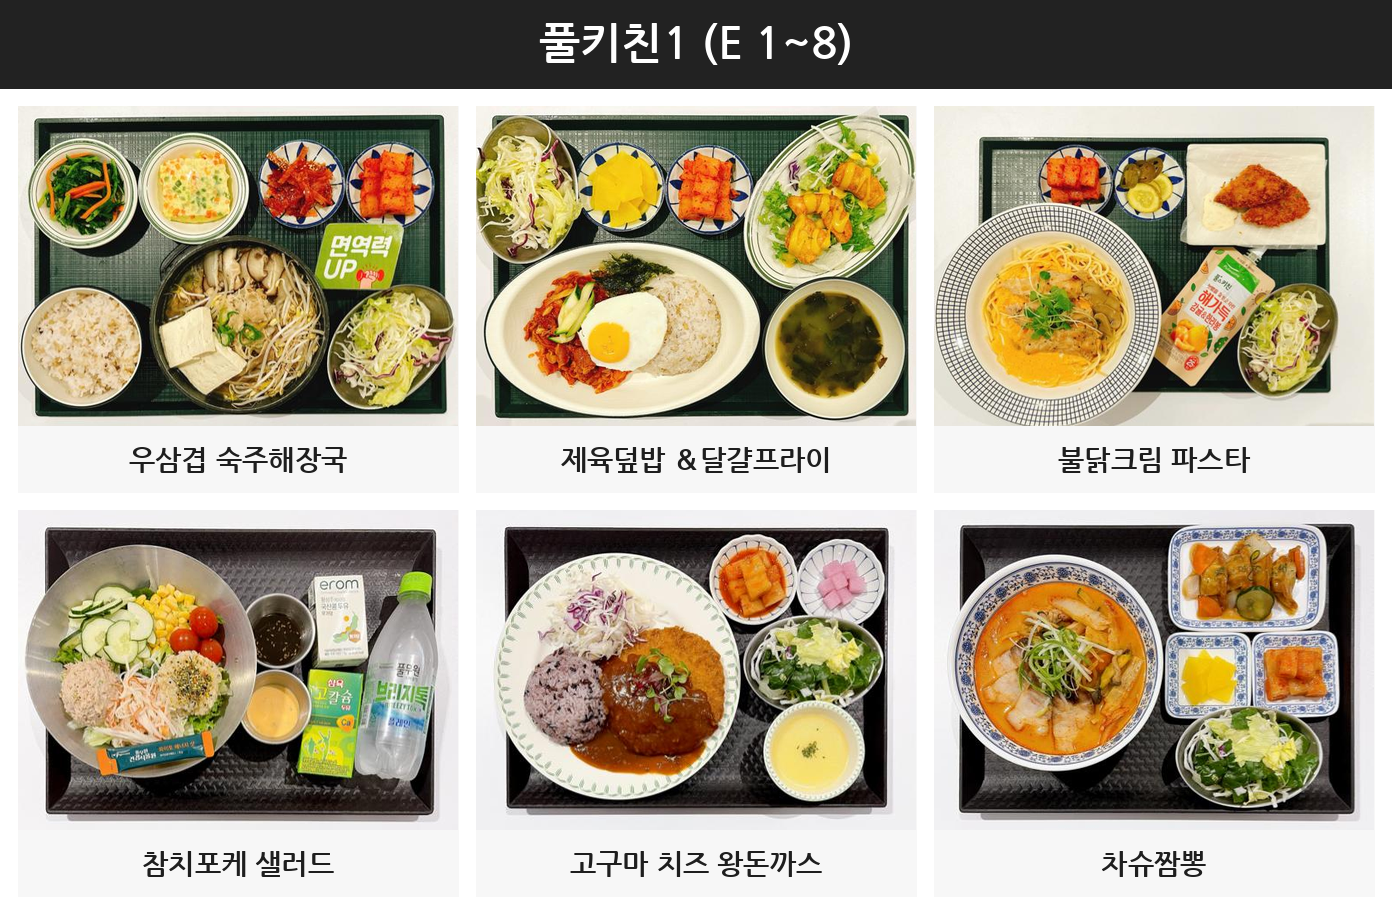
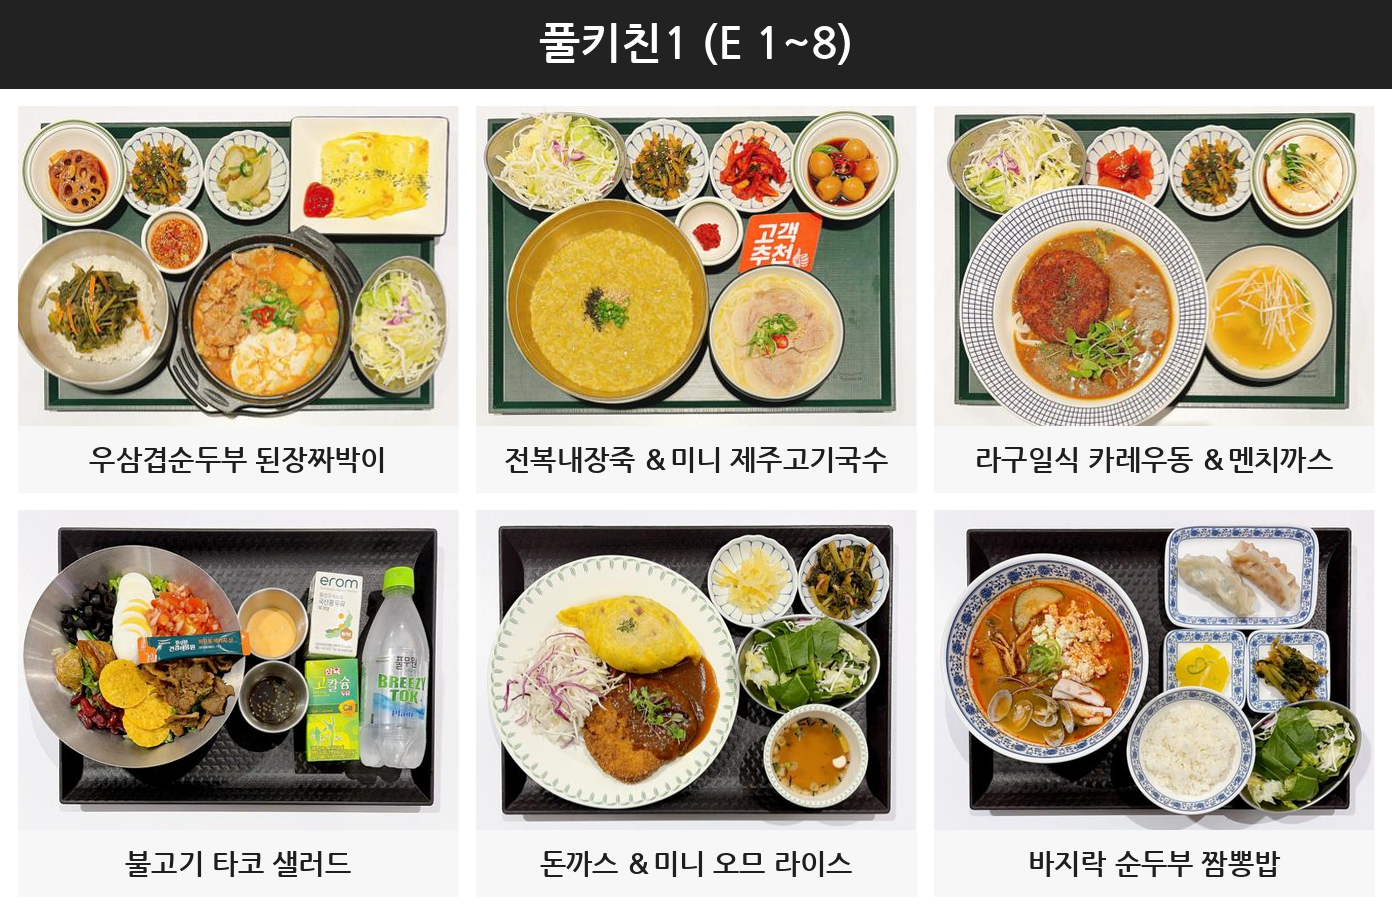
menu 2026-07-20

diff --git a/out/pulkitchen2_monday.html b/out/pulkitchen2_monday.html
@@ -1,1 +1,1 @@
-<!doctype html><html lang="ko"><head><meta charset="utf-8"><meta name="viewport" content="width=device-width,initial-scale=1"><title>풀키친2 (E 9~14) · 2026-07-13</title><style>html,body{margin:0;background:#111}img{display:block;width:100%;height:auto;margin-bottom:10px}</style></head><body><img src="pulkitchen2_monday.png?v=20260713"></body></html>
+<!doctype html><html lang="ko"><head><meta charset="utf-8"><meta name="viewport" content="width=device-width,initial-scale=1"><title>풀키친2 (E 9~14) · 2026-07-20</title><style>html,body{margin:0;background:#111}img{display:block;width:100%;height:auto;margin-bottom:10px}</style></head><body><img src="pulkitchen2_monday.png?v=20260720"></body></html>

diff --git a/out/pulkitchen1_monday.html b/out/pulkitchen1_monday.html
@@ -1,1 +1,1 @@
-<!doctype html><html lang="ko"><head><meta charset="utf-8"><meta name="viewport" content="width=device-width,initial-scale=1"><title>풀키친1 (E 1~8) · 2026-07-13</title><style>html,body{margin:0;background:#111}img{display:block;width:100%;height:auto;margin-bottom:10px}</style></head><body><img src="pulkitchen1_monday.png?v=20260713"></body></html>
+<!doctype html><html lang="ko"><head><meta charset="utf-8"><meta name="viewport" content="width=device-width,initial-scale=1"><title>풀키친1 (E 1~8) · 2026-07-20</title><style>html,body{margin:0;background:#111}img{display:block;width:100%;height:auto;margin-bottom:10px}</style></head><body><img src="pulkitchen1_monday.png?v=20260720"></body></html>

diff --git a/index.html b/index.html
@@ -1,1 +1,1 @@
-<!doctype html><html lang="ko"><head><meta charset="utf-8"><meta name="viewport" content="width=device-width,initial-scale=1"><title>오늘의 식단 · 2026-07-17</title><style>html,body{margin:0;background:#111}img{display:block;width:100%;height:auto;margin-bottom:10px}</style></head><body></body></html>
+<!doctype html><html lang="ko"><head><meta charset="utf-8"><meta name="viewport" content="width=device-width,initial-scale=1"><title>오늘의 식단 · 2026-07-20</title><style>html,body{margin:0;background:#111}img{display:block;width:100%;height:auto;margin-bottom:10px}</style></head><body><img src="pulkitchen1_monday.png?v=20260720"><img src="pulkitchen2_monday.png?v=20260720"></body></html>

diff --git a/out/index.html b/out/index.html
@@ -1,1 +1,1 @@
-<!doctype html><html lang="ko"><head><meta charset="utf-8"><meta name="viewport" content="width=device-width,initial-scale=1"><title>오늘의 식단 · 2026-07-17</title><style>html,body{margin:0;background:#111}img{display:block;width:100%;height:auto;margin-bottom:10px}</style></head><body></body></html>
+<!doctype html><html lang="ko"><head><meta charset="utf-8"><meta name="viewport" content="width=device-width,initial-scale=1"><title>오늘의 식단 · 2026-07-20</title><style>html,body{margin:0;background:#111}img{display:block;width:100%;height:auto;margin-bottom:10px}</style></head><body><img src="pulkitchen1_monday.png?v=20260720"><img src="pulkitchen2_monday.png?v=20260720"></body></html>
